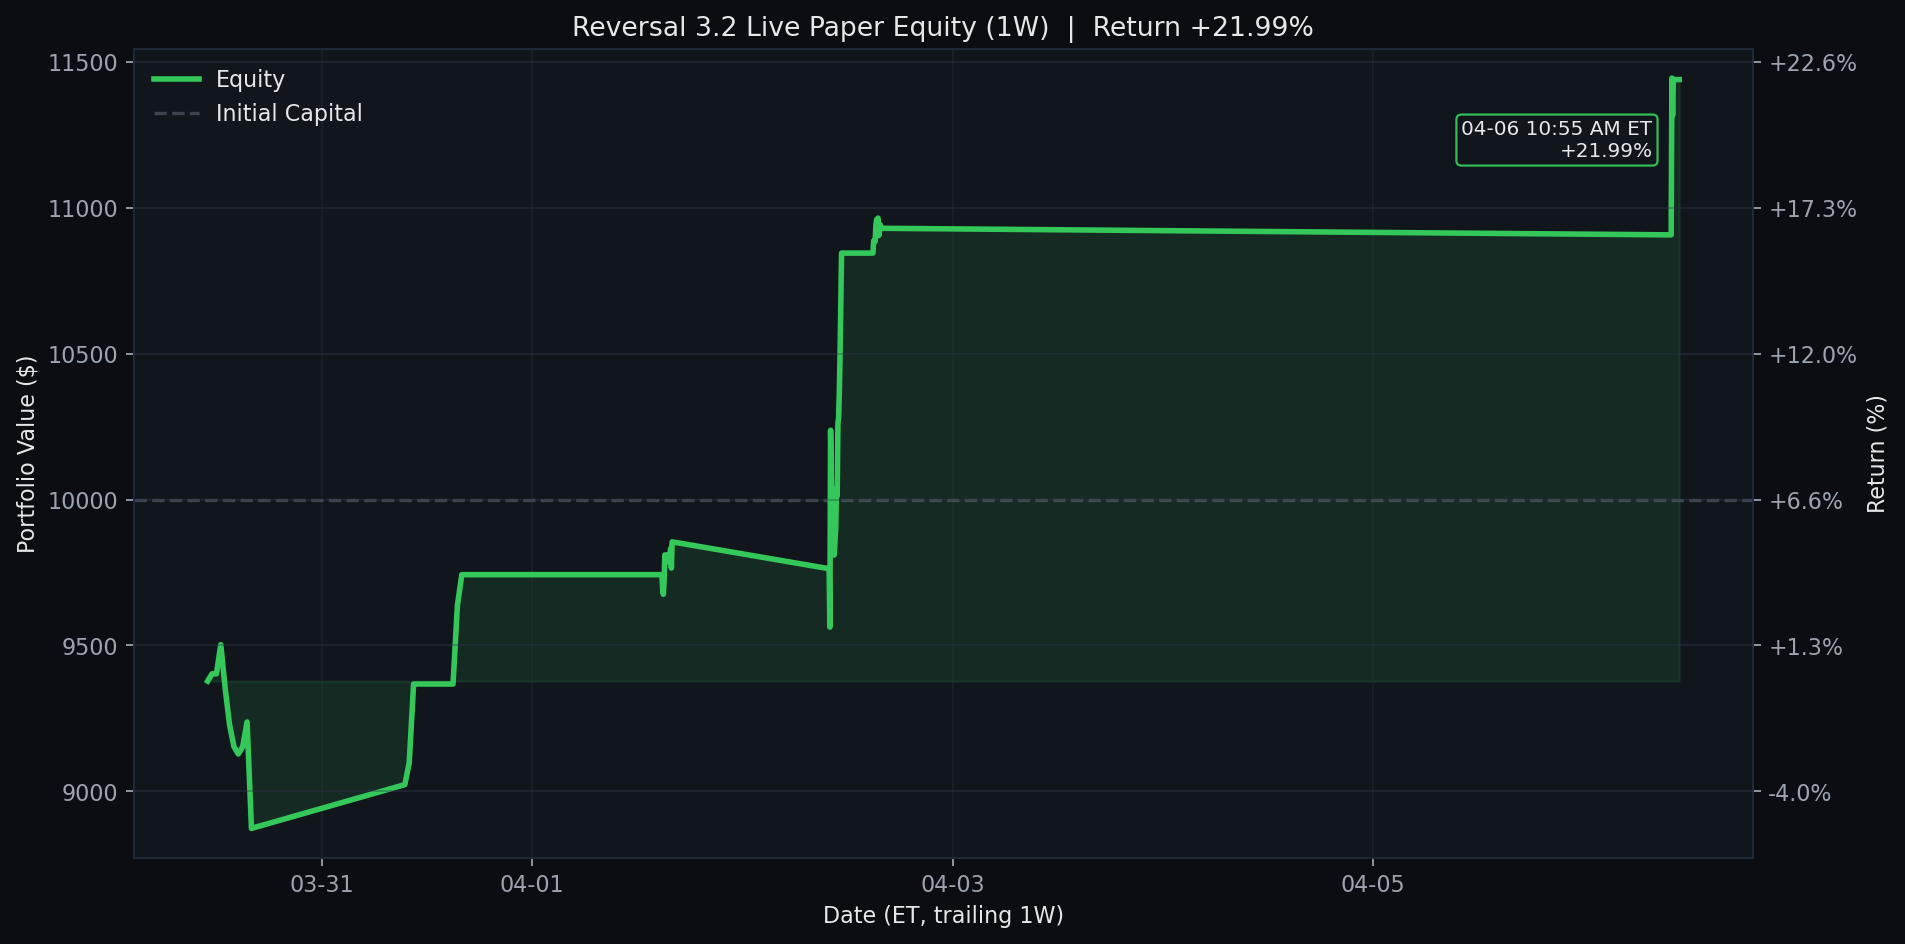
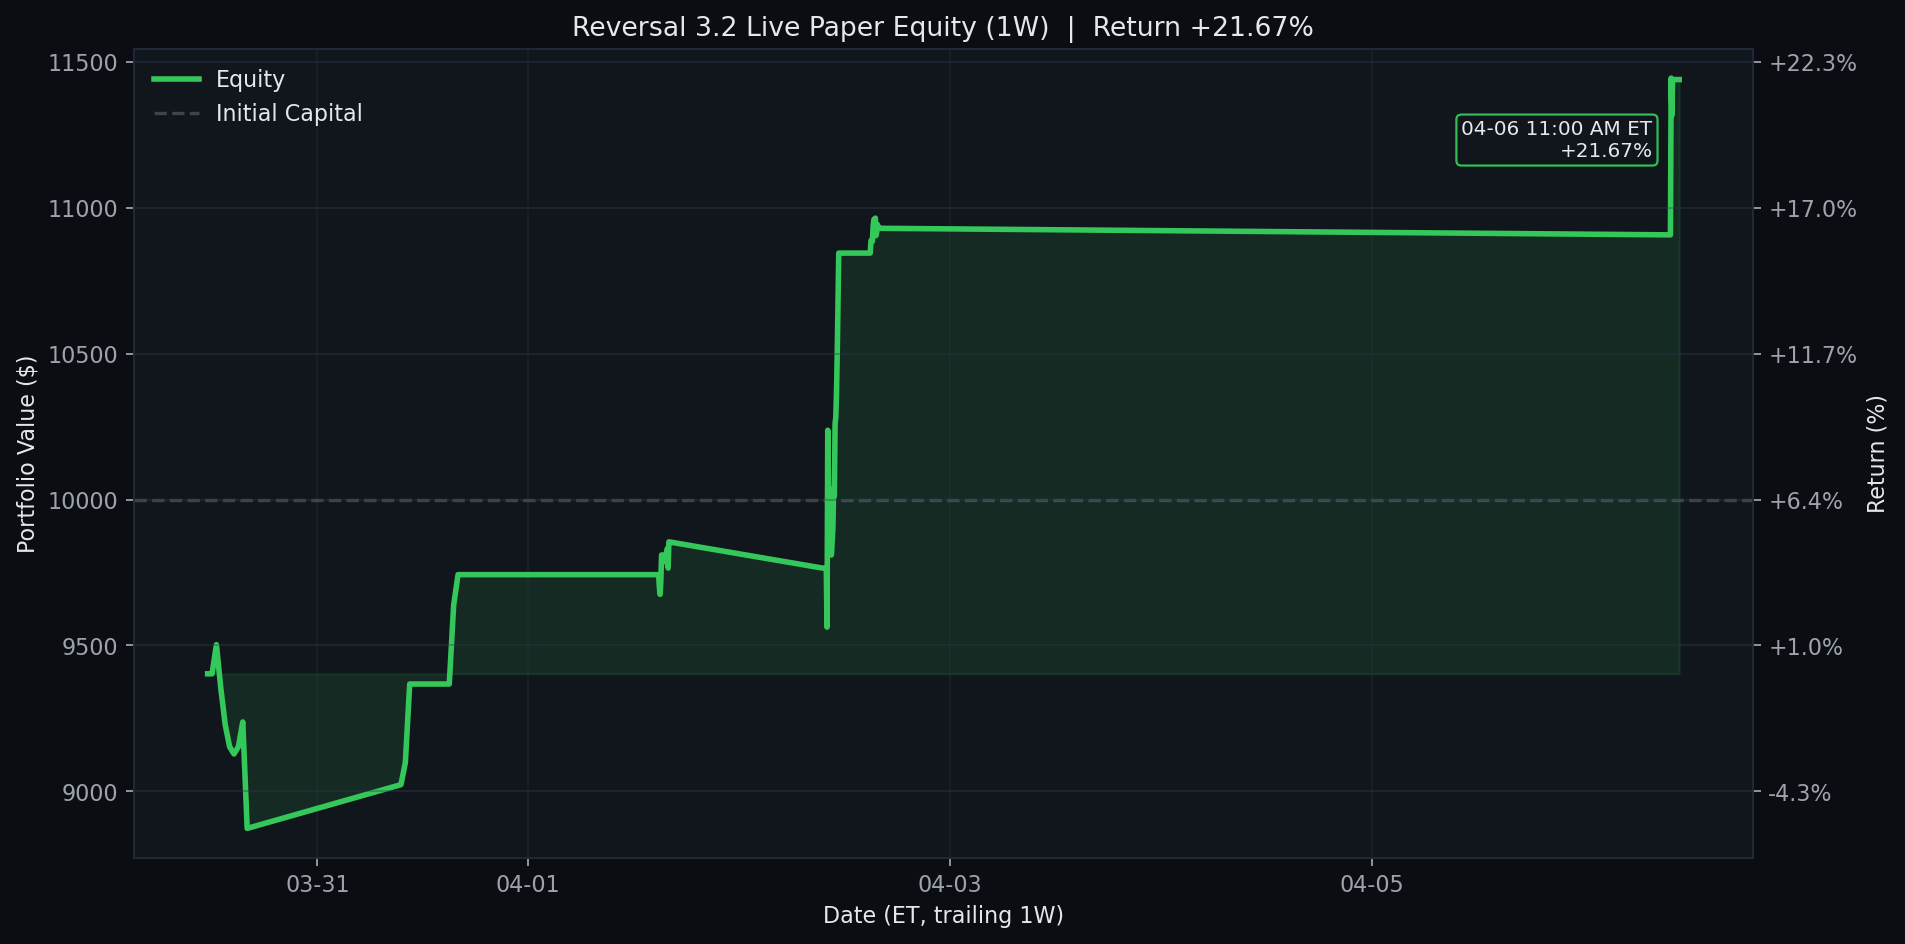
Update Reversal 3.2 live paper test 2026-04-06 11:00 ET

diff --git a/results/reversal_3_2_live/README.md b/results/reversal_3_2_live/README.md
@@ -1,6 +1,6 @@
 # Reversal 3.2 Live Paper Test
 
-Last updated (ET): `2026-04-06 10:55:05 EDT`
+Last updated (ET): `2026-04-06 11:00:03 EDT`
 Last processed slot: `manage_1100`
 
 ## Active Configuration
@@ -40,24 +40,25 @@ ticker    contract_symbol entry_trade_date_et exit_trade_date_et  entry_option_p
 
 ```text
 ticker  success_rate_%  matched_signals  current_drop_%  target_rebound_$  target_price  rolling_sigma_20d_%  call_candidate
-   HON          100.00               22            0.61              0.98        229.03                20.57            True
-  FTNT           93.33               45            0.58              0.33         82.39                30.26            True
-  FAST           90.91               33            0.69              0.22         46.20                21.85            True
-  CDNS           90.48               42            0.97              1.88        277.91                25.28            True
-  AVGO           88.57               35            1.00              2.19        313.61                41.04            True
-  TSLA           87.10               31            1.20              3.03        359.29                42.35            True
-  ASML           81.82               22            1.79             16.51       1310.15                51.28            True
-  CTSH           81.25               32            0.83              0.36         62.38                26.11            True
-  MELI           81.08               37            1.09             13.09       1709.91                39.93            True
-  NFLX           95.83               48            0.04              0.03         98.65                27.07           False
+   HON          100.00               24            0.52              0.84        229.09                20.57            True
+  FTNT           93.48               46            0.53              0.31         82.40                30.26            True
+  FAST           91.89               37            0.54              0.18         46.22                21.85            True
+  CDNS           90.70               43            0.72              1.41        278.12                25.28            True
+  AVGO           89.74               39            0.68              1.50        313.91                41.04            True
+  TSLA           85.71               28            1.33              3.35        359.16                42.35            True
+  TMUS           84.00               25            0.82              1.16        200.90                22.45            True
+  CTSH           83.87               31            0.90              0.39         62.37                26.11            True
+  MELI           82.05               39            0.92             11.04       1710.79                39.93            True
+  ASML           81.82               22            1.76             16.27       1310.26                51.28            True
+  FANG          100.00               31            0.13              0.17        193.81                28.70           False
   NVDA           92.11               38            0.40              0.50        177.18                36.70           False
-  PCAR           91.11               45            0.35              0.29        118.20                23.40           False
 ```
 
 ## Recent Events
 
 ```text
                     timestamp_et        slot   event_type                                                                                                                                 detail
+2026-04-06T11:00:03.415712-04:00 manage_1100 slot_skipped                                                                                                        {"reason": "already_processed"}
 2026-04-06T10:55:05.885281-04:00 manage_1100 slot_skipped                                                                                                        {"reason": "already_processed"}
 2026-04-06T10:40:05.887120-04:00 manage_1030 slot_skipped                                                                                                        {"reason": "already_processed"}
 2026-04-06T10:35:05.885229-04:00 manage_1030 slot_skipped                                                                                                        {"reason": "already_processed"}
@@ -67,7 +68,6 @@ ticker  success_rate_%  matched_signals  current_drop_%  target_rebound_$  targe
 2026-04-06T10:10:05.890008-04:00 manage_1000 slot_skipped                                                                                                        {"reason": "already_processed"}
 2026-04-06T10:05:05.886743-04:00 manage_1000 slot_skipped                                                                                                        {"reason": "already_processed"}
 2026-04-06T10:00:06.219713-04:00 manage_1000 slot_skipped                                                                                                        {"reason": "already_processed"}
-2026-04-06T09:55:02.509102-04:00 manage_1000 slot_skipped                                                                                                        {"reason": "already_processed"}
 ```
 
 ## Equity Curves

diff --git a/README.md b/README.md
@@ -3,7 +3,7 @@
 <!-- reversal-3.2-live:start -->
 ## Reversal 3.2 Live Paper Test
 
-- Last updated (ET): `2026-04-06 10:55:05 EDT`
+- Last updated (ET): `2026-04-06 11:00:03 EDT`
 - Equity: `$11,440.00` | Realized: `$1,440.00` | Unrealized: `$0.00` | Open positions: `0`
 - Today closed trades: `1`
 - Current slot: `manage_1100`
